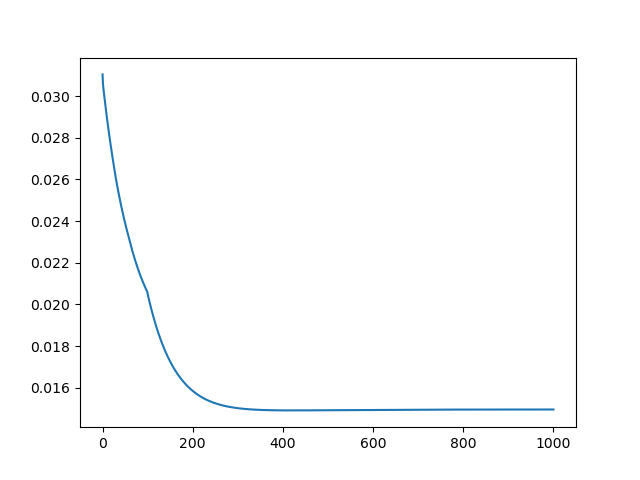
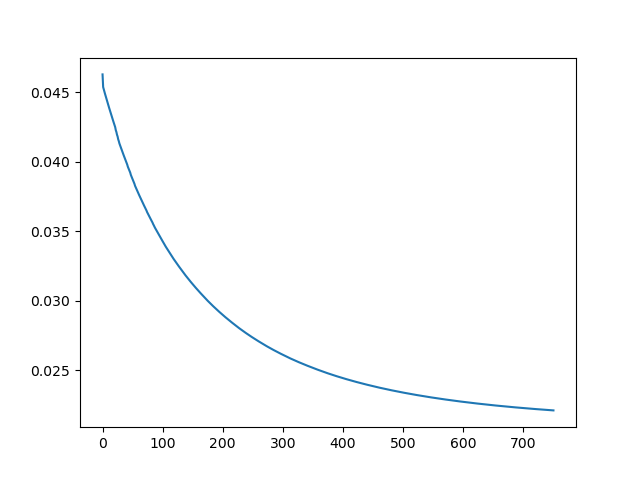
obc

diff --git a/synthetic_experiments/test.py b/synthetic_experiments/test.py
@@ -11,7 +11,7 @@ import torch.optim as optim
 from matplotlib import pyplot as plt
 
 # For reproduce the results
-torch.manual_seed(1234)
+#torch.manual_seed(1234)
 
 import numpy as np
 
@@ -36,7 +36,7 @@ k_star = 16
 k = 64 # The sparsity of weights during training
 
     
-num_steps = 1000
+num_steps = 750
 
 X, Y, w_star = sparse_linear_data(n, d, k_star)
 
@@ -55,6 +55,12 @@ criterion = nn.MSELoss()
 hessian = torch.matmul(X.t(), X)
 
 h_inv = hessian.inverse()
+
+hessian_sym = 0.5*(hessian + hessian.t())
+        
+eigvals =  torch.real(torch.linalg.eigvals(hessian_sym)) 
+
+max_lr = 1/torch.max( eigvals, dim = 0).values.item()
 
 print(X.shape, Y.shape)
 
@@ -91,7 +97,7 @@ for expr in range(num_expr):
 
             gradient = param.grad.data
             
-            data_new = param.data - gradient @ hessian.inverse()
+            data_new = param.data -   max_lr*gradient
 
             _ , mask_obc = OBC( param.data, h_inv, d, k )
 

diff --git a/synthetic_experiments/obc_rs50f.py b/synthetic_experiments/obc_rs50f.py
@@ -1,5 +1,7 @@
 import os
 import torch
+import torch.nn as nn
+import torch.optim as optim
 import numpy as np
 import matplotlib.pyplot as plt
 from torch.utils.data import Dataset, DataLoader
@@ -7,6 +9,15 @@ from torchvision import transforms, utils
 
 
 from algorithms import OBC
+
+
+class LinearRegressionModel(nn.Module):
+    def __init__(self, input_size, output_size):
+        super(LinearRegressionModel, self).__init__()
+        self.linear = nn.Linear(input_size, output_size, bias=False)
+
+    def forward(self, x):
+        return self.linear(x)
 
 
 def get_custom_datasets(path, suffix=''):
@@ -21,3 +32,5 @@ def get_custom_datasets(path, suffix=''):
 
 def get_rn50x16openai_datasets(path):
     return get_custom_datasets(path)
+
+
